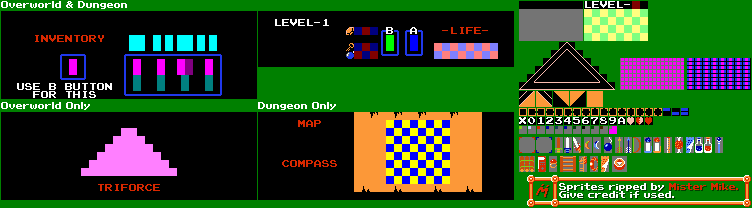
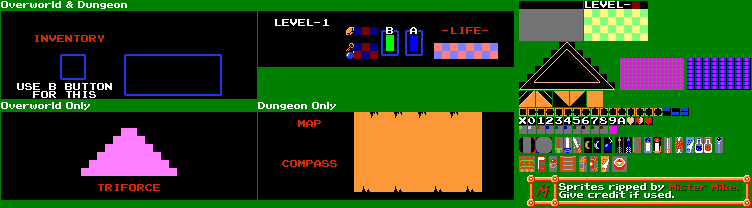
HUD weapon selection

diff --git a/src/HUD/HUDInventory.cs b/src/HUD/HUDInventory.cs
@@ -1,0 +1,124 @@
+using System;
+using System.Collections.Generic;
+using Microsoft.Xna.Framework;
+using Microsoft.Xna.Framework.Graphics;
+using ZeldaGame.Player;
+using ZeldaGame.Map;
+
+namespace ZeldaGame.HUD
+{
+    public class HUDInventory
+    {
+        private int listLength;
+        private List<Rectangle> weaponSRList;
+        private List<Rectangle> weaponDRList;
+        private int cycleIndex;
+        private Texture2D texture;
+        private Vector2 scale;
+        private Rectangle selectionSR;
+        private Rectangle selectionDR;
+        private Rectangle targetWeaponDRTop;
+        private Rectangle targetWeaponDRBottom;
+
+        public HUDInventory(Texture2D texture, Vector2 scale)
+        {
+            this.texture = texture;
+            this.scale = scale;
+            weaponSRList = new List<Rectangle>();
+            weaponDRList = new List<Rectangle>();
+            SetWeapen();
+        }
+
+        public void Draw(SpriteBatch spriteBatch, int isDisplayed)
+        {
+            if (isDisplayed == 1)
+            {
+                spriteBatch.Draw(texture, selectionDR, selectionSR, Color.White);
+                spriteBatch.Draw(texture, targetWeaponDRTop, weaponSRList[cycleIndex], Color.White);
+                spriteBatch.Draw(texture, targetWeaponDRBottom, weaponSRList[cycleIndex], Color.White);
+                for (int i = 0; i < weaponSRList.Count; i++)
+                    spriteBatch.Draw(texture, weaponDRList[i], weaponSRList[i], Color.White);
+            }
+        }
+
+        public Rectangle currentWeapon() => weaponSRList[cycleIndex];
+
+        public void cycleList(int cycleDirection)
+        {
+            listLength = weaponSRList.Count;
+            if (cycleDirection == 1)
+            {
+                cycleIndex = (cycleIndex + 1) % listLength;
+            }
+            else if (cycleDirection == 0)
+            {
+                cycleIndex = (cycleIndex - 1 + listLength) % listLength;
+            }
+            SetSelection(cycleIndex);
+        }
+
+        public void SetWeapen()
+        {
+            Rectangle ArrowSR = new Rectangle(615, 137, 8, 16);
+            Rectangle BlueArrowSR = new Rectangle(624, 137, 8, 16);
+            Rectangle BoomerangSR = new Rectangle(584, 137, 8, 16);
+            Rectangle BlueBoomerangSR = new Rectangle(593, 137, 8, 16);
+            Rectangle BombSR = new Rectangle(604, 137, 8, 16);
+            Rectangle FireballSR = new Rectangle(653, 137, 8, 16);
+
+            Rectangle ArrowDR = new Rectangle((int)(132 * scale.X), (int)(48 * scale.Y), (int)(8 * scale.X), (int)(16 * scale.Y));
+            Rectangle BlueArrowDR = new Rectangle((int)(156 * scale.X), (int)(48 * scale.Y), (int)(8 * scale.X), (int)(16 * scale.Y));
+            Rectangle BoomerangDR = new Rectangle((int)(180 * scale.X), (int)(48 * scale.Y), (int)(8 * scale.X), (int)(16 * scale.Y));
+            Rectangle BlueBoomerangDR = new Rectangle((int)(204 * scale.X), (int)(48 * scale.Y), (int)(8 * scale.X), (int)(16 * scale.Y));
+            Rectangle BombDR = new Rectangle((int)(132 * scale.X), (int)(64 * scale.Y), (int)(8 * scale.X), (int)(16 * scale.Y));
+            Rectangle FireballDR = new Rectangle((int)(156 * scale.X), (int)(64 * scale.Y), (int)(8 * scale.X), (int)(16 * scale.Y));
+
+            targetWeaponDRTop = new Rectangle((int)(68 * scale.X), (int)(48 * scale.Y), (int)(8 * scale.X), (int)(16 * scale.Y));
+            targetWeaponDRBottom = new Rectangle((int)(128 * scale.X), (int)(200 * scale.Y), (int)(8 * scale.X), (int)(16 * scale.Y));
+            selectionDR = new Rectangle((int)(128 * scale.X), (int)(48 * scale.Y), (int)(16 * scale.X), (int)(16 * scale.Y));
+            selectionSR = new Rectangle(519, 137, 16, 16);
+
+            weaponSRList.Add(ArrowSR);
+            weaponSRList.Add(BlueArrowSR);
+            weaponSRList.Add(BoomerangSR);
+            weaponSRList.Add(BlueBoomerangSR);
+            weaponSRList.Add(BombSR);
+            weaponSRList.Add(FireballSR);
+
+            weaponDRList.Add(ArrowDR);
+            weaponDRList.Add(BlueArrowDR);
+            weaponDRList.Add(BoomerangDR);
+            weaponDRList.Add(BlueBoomerangDR);
+            weaponDRList.Add(BombDR);
+            weaponDRList.Add(FireballDR);
+        }
+
+        public void SetSelection(int selection)
+        {
+            switch (selection)
+            {
+                case 0:
+                    selectionDR = new Rectangle((int)(128 * scale.X), (int)(48 * scale.Y), (int)(16 * scale.X), (int)(16 * scale.Y));
+                    break;
+                case 1:
+                    selectionDR = new Rectangle((int)(152 * scale.X), (int)(48 * scale.Y), (int)(16 * scale.X), (int)(16 * scale.Y));
+                    break;
+                case 2:
+                    selectionDR = new Rectangle((int)(176 * scale.X), (int)(48 * scale.Y), (int)(16 * scale.X), (int)(16 * scale.Y));
+                    break;
+                case 3:
+                    selectionDR = new Rectangle((int)(200 * scale.X), (int)(48 * scale.Y), (int)(16 * scale.X), (int)(16 * scale.Y));
+                    break;
+                case 4:
+                    selectionDR = new Rectangle((int)(128 * scale.X), (int)(64 * scale.Y), (int)(16 * scale.X), (int)(16 * scale.Y));
+                    break;
+                case 5: 
+                    selectionDR = new Rectangle((int)(152 * scale.X), (int)(64 * scale.Y), (int)(16 * scale.X), (int)(16 * scale.Y));
+                    break;
+                default:
+                    return;
+            }
+        }
+
+    }
+}

diff --git a/src/HUD/PlayerInfoHUD.cs b/src/HUD/PlayerInfoHUD.cs
@@ -25,6 +25,7 @@ namespace ZeldaGame.HUD
 
 		private Rectangle playerInfoSR;
         private Rectangle playerInfoDR;
+        private Rectangle currentWeaponDR;
         private Rectangle allBlankSR;
         private Rectangle rubyBlankDR;
         private Rectangle keyBlankDR;
@@ -67,6 +68,7 @@ namespace ZeldaGame.HUD
 
 			playerInfoSR = new Rectangle(258, 11, 256, 56);
             playerInfoDR = new Rectangle(0, 0, 0, 0);
+            currentWeaponDR = new Rectangle((int)(128 * scale.X), (int)(24 * scale.Y), (int)(8 * scale.X), (int)(16 * scale.Y));
             allBlankSR = new Rectangle(353, 11, 23, 15);
             rubyBlankDR = new Rectangle(300, 50, 85, 25);
             keyBlankDR = new Rectangle(300, 100, 85, 25);
@@ -108,8 +110,8 @@ namespace ZeldaGame.HUD
             rubyCountInt = (ItemActionHandler.inventoryCounts[0] * 5) + ItemActionHandler.inventoryCounts[1];
             rubyCountString = "x" + rubyCountInt.ToString();
 
-
             spriteBatch.Draw(texture, playerInfoDR, playerInfoSR, Color.White);
+            spriteBatch.Draw(texture, currentWeaponDR, myGame.headUpDisplay.HUDInventory.currentWeapon(), Color.White);
             spriteBatch.Draw(texture, keyBlankDR, allBlankSR, Color.White);
             spriteBatch.Draw(texture, bombBlankDR, allBlankSR, Color.White);
             RubyCount(spriteBatch);
@@ -119,10 +121,7 @@ namespace ZeldaGame.HUD
             DrawHealth(spriteBatch);
 
             if (!isDisplayed)
-            {
                 mapHandler.Draw(spriteBatch, -1);
-            }
-
         }
 
 

diff --git a/src/HUD/HeadUpDisplay.cs b/src/HUD/HeadUpDisplay.cs
@@ -11,6 +11,7 @@ namespace ZeldaGame.HUD
     {
         private HUDMapHandler HUDMapHandler;
         private CollisionHandler collision;
+        public HUDInventory HUDInventory;
         private Texture2D texture;
         private Vector2 scale;
         private Rectangle inventorySR;
@@ -26,6 +27,7 @@ namespace ZeldaGame.HUD
             this.texture = texture;
             this.scale = scale;
             this.collision = collisionHandler;
+            HUDInventory = new HUDInventory(texture, scale);
             HUDMapHandler = new HUDMapHandler(texture, scale, map, collisionHandler);
             inventorySR = new Rectangle(1, 11, 256, 88);
             mapSR = new Rectangle(258, 112, 256, 88);
@@ -51,6 +53,7 @@ namespace ZeldaGame.HUD
                 DrawCompassItem(spriteBatch);
             }
             HUDMapHandler.Draw(spriteBatch, isDisplayed);
+            HUDInventory.Draw(spriteBatch, isDisplayed);
         }
 
         public void Update ()

diff --git a/src/HUD/HUDMapHandler.cs b/src/HUD/HUDMapHandler.cs
@@ -34,12 +34,12 @@ namespace ZeldaGame.HUD
             {
                 DrawHUDMap("Bottom_Blue", spriteBatch);
                 DrawHUDMap("Orange", spriteBatch);
-                DrawFianlRoom("Bottom_Blue", spriteBatch);
+                DrawFinalRoom("Bottom_Blue", spriteBatch);
             }
             if (isDisplayed == -1)
             {
                 DrawHUDMap("Top_Blue", spriteBatch);
-                DrawFianlRoom("Top_Blue", spriteBatch);
+                DrawFinalRoom("Top_Blue", spriteBatch);
             }
         }
 
@@ -54,7 +54,7 @@ namespace ZeldaGame.HUD
             spriteBatch.Draw(texture, playerPosition[map_name], new Rectangle(519, 126, 3, 3), Color.White);
         }
 
-        public void DrawFianlRoom(string map_name, SpriteBatch spriteBatch)
+        public void DrawFinalRoom(string map_name, SpriteBatch spriteBatch)
         {
             if(collision.itemActionHandler.isCompassObtained())
             {

diff --git a/src/Game1.cs b/src/Game1.cs
@@ -174,6 +174,12 @@ namespace ZeldaGame
 
 			//Registers commands with Keys for pausing and unpausing the game
 			keyboardController.RegisterPressKey(Keys.P, new PauseCommand(this));
+
+			//Registers commands with Keys for HUD weapon selection
+            keyboardController.RegisterPressKey(Keys.A, new HUDInventoryCommandLast(this));
+            keyboardController.RegisterPressKey(Keys.D, new HUDInventoryCommandNext(this));
+            keyboardController.RegisterPressKey(Keys.Left, new HUDInventoryCommandLast(this));
+            keyboardController.RegisterPressKey(Keys.Right, new HUDInventoryCommandNext(this));
         }
 
         protected override void Update(GameTime gameTime) {

diff --git a/src/HUD/HUDInventoryCommandLast.cs b/src/HUD/HUDInventoryCommandLast.cs
@@ -1,0 +1,26 @@
+using System;
+using System.Collections.Generic;
+using System.Linq;
+using System.Text;
+using System.Threading.Tasks;
+
+namespace ZeldaGame.HUD
+{
+    public class HUDInventoryCommandLast : ICommand
+    {
+        private Game1 MyGame;
+        private int last = 0;
+
+        public HUDInventoryCommandLast(Game1 myGame)
+        {
+            MyGame = myGame;
+        }
+
+        public void Execute()
+        {
+            if (MyGame.headUpDisplay.isVisible())
+                MyGame.headUpDisplay.HUDInventory.cycleList(last);
+        }
+
+    }
+}

diff --git a/src/HUD/HUDInventoryCommandNext.cs b/src/HUD/HUDInventoryCommandNext.cs
@@ -1,0 +1,26 @@
+using System;
+using System.Collections.Generic;
+using System.Linq;
+using System.Text;
+using System.Threading.Tasks;
+
+namespace ZeldaGame.HUD
+{
+    public class HUDInventoryCommandNext : ICommand
+    {
+        private Game1 MyGame;
+        private int next = 1;
+
+        public HUDInventoryCommandNext(Game1 myGame)
+        {
+            MyGame = myGame;
+        }
+
+        public void Execute()
+        {
+            if (MyGame.headUpDisplay.isVisible())
+                MyGame.headUpDisplay.HUDInventory.cycleList(next);
+        }
+
+    }
+}
